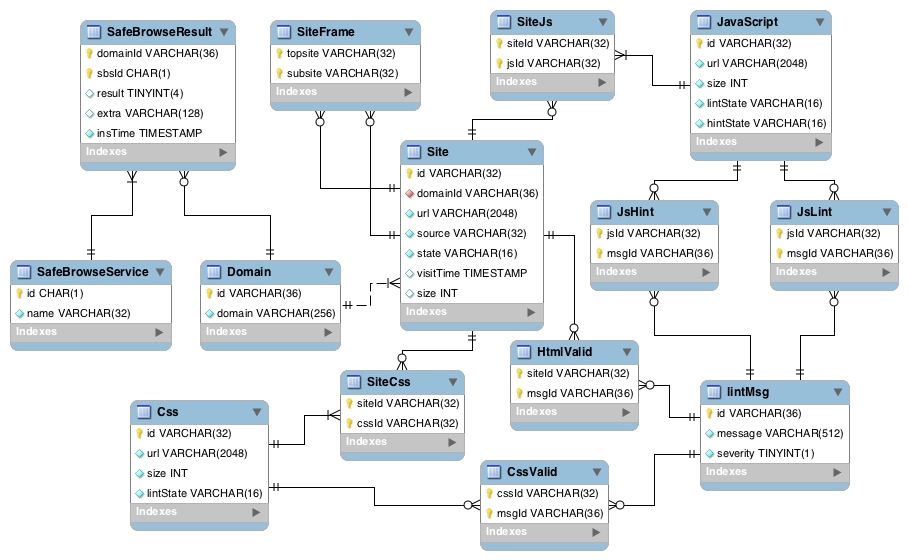
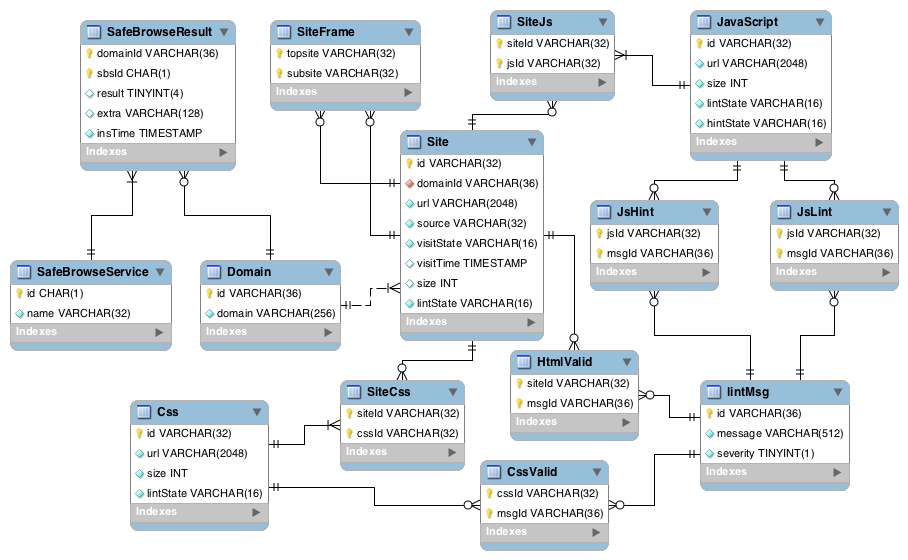
groundwork for html lintstate tracking

Changed region(s): [[0.3392, 0.2125, 0.7401, 0.85]]

diff --git a/src/main/java/edu/uccs/arenger/hilas/dal/Site.java b/src/main/java/edu/uccs/arenger/hilas/dal/Site.java
@@ -22,22 +22,22 @@ public class Site {
    private String  domainId;
    private URL     url;
    private String  source;
-   private State   state;
+   private VisitState   visitState;
    private Long    visitTime;
    private Integer size;
 
-   public enum State {
+   public enum VisitState {
       NEW, VISITING, VISITED, VALIDATING, VALID, ERROR
    }
 
    private static final String SEL = 
       "select * from site where id = ?";
    private static final String SEL_UNVISITED = 
-      "select * from site where state = 'NEW' limit 1";
+      "select * from site where visitState = 'NEW' limit 1";
    private static final String INS =
       "insert into site values (?,?,?,?,?,?,?)";
    private static final String UPD = 
-      "update site set state = ?, visitTime = ?, size = ? where id = ?";
+      "update site set visitState = ?, visitTime = ?, size = ? where id = ?";
    private static final String DEL_SITE_FRAME = 
       "delete from siteframe where topsite = ?";
    private static final String INS_SITE_FRAME = 
@@ -47,7 +47,7 @@ public class Site {
       id = Util.md5(url.toString());
       this.url = url;
       this.source = source;
-      state = State.NEW;
+      visitState = VisitState.NEW;
    }
 
    private Site(ResultSet rs) throws SQLException {
@@ -59,7 +59,7 @@ public class Site {
          LOGGER.warn("malformed url for id {}", id);
       }
       source = rs.getString("source");
-      state = State.valueOf(rs.getString("state"));
+      visitState = VisitState.valueOf(rs.getString("visitState"));
       Timestamp ts = rs.getTimestamp("visitTime");
       if (ts != null) { visitTime = ts.getTime(); }
       size = rs.getInt("size"); if (rs.wasNull()) { size = null; }
@@ -84,7 +84,7 @@ public class Site {
          ps.setString(2, domainId);
          ps.setString(3, url.toString());
          ps.setString(4, source);
-         ps.setString(5, state.toString());
+         ps.setString(5, visitState.toString());
          if (visitTime != null) {
             ps.setTimestamp(6, new Timestamp(visitTime));
          } else {
@@ -105,7 +105,7 @@ public class Site {
    public void update() throws DalException {
       try (Connection conn = Pool.getConnection();
            PreparedStatement ps = conn.prepareStatement(UPD)) {
-         ps.setString(1, state.toString());
+         ps.setString(1, visitState.toString());
          if (visitTime != null) {
             ps.setTimestamp(2, new Timestamp(visitTime));
          } else {
@@ -176,7 +176,7 @@ public class Site {
          }
       } catch (SQLException e) { throw new DalException(e); }
       if (site != null) {
-         site.setState(State.VISITING);
+         site.setState(VisitState.VISITING);
          site.update();
       }
       return site;
@@ -203,8 +203,8 @@ public class Site {
       return url;
    }
 
-   public void setState(State state) {
-      this.state = state;
+   public void setState(VisitState visitState) {
+      this.visitState = visitState;
    }
 
    public void setVisitTime(Long visitTime) {

diff --git a/src/main/java/edu/uccs/arenger/hilas/dal/JavaScript.java b/src/main/java/edu/uccs/arenger/hilas/dal/JavaScript.java
@@ -6,23 +6,22 @@ import java.sql.Connection;
 import java.sql.PreparedStatement;
 import java.sql.ResultSet;
 import java.sql.SQLException;
-import java.util.HashSet;
-import java.util.Set;
 
 import org.slf4j.Logger;
 import org.slf4j.LoggerFactory;
 
 import edu.uccs.arenger.hilas.Util;
+import edu.uccs.arenger.hilas.quality.LintState;
 
-public class JavaScript extends SiteResource {
+public final class JavaScript extends SiteResource {
    private static final Logger LOGGER
       = LoggerFactory.getLogger(JavaScript.class);
 
-   private String id;
-   private URL    url;
-   private int    size;
-   private State  lintState;
-   private State  hintState;
+   private String    id;
+   private URL       url;
+   private int       size;
+   private LintState lintState;
+   private LintState hintState;
 
    private static final String SEL =
       "select * from javascript where id = ?";
@@ -36,14 +35,12 @@ public class JavaScript extends SiteResource {
       "update JavaScript set lintState = ?, hintState = ? " +
       "where id = ?";
 
-   public enum State { UNPROCESSED, PROCESSING, PROCESSED, ERROR }
-
    public JavaScript(URL url, String content) {
       id = Util.md5(content);
       this.url = url;
       size = content.length();
-      lintState = State.UNPROCESSED;
-      hintState = State.UNPROCESSED;
+      lintState = LintState.UNPROCESSED;
+      hintState = LintState.UNPROCESSED;
    }
 
    private JavaScript(ResultSet rs) throws SQLException {
@@ -54,8 +51,8 @@ public class JavaScript extends SiteResource {
          LOGGER.warn("malformed url for id {}", id);
       }
       size = rs.getInt("size");
-      lintState = State.valueOf(rs.getString("lintState"));
-      hintState = State.valueOf(rs.getString("hintState"));
+      lintState = LintState.valueOf(rs.getString("lintState"));
+      hintState = LintState.valueOf(rs.getString("hintState"));
    }
 
    public static JavaScript get(String content) throws DalException {
@@ -120,7 +117,7 @@ public class JavaScript extends SiteResource {
          }
       } catch (SQLException e) { throw new DalException(e); }
       if (js != null) {
-         js.setHintState(State.PROCESSING);
+         js.setHintState(LintState.PROCESSING);
          js.update();
       }
       return js;
@@ -134,11 +131,11 @@ public class JavaScript extends SiteResource {
       return url;
    }
 
-   public void setLintState(State lintState) {
+   public void setLintState(LintState lintState) {
       this.lintState = lintState;
    }
 
-   public void setHintState(State hintState) {
+   public void setHintState(LintState hintState) {
       this.hintState = hintState;
    }
 

diff --git a/src/main/java/edu/uccs/arenger/hilas/dal/Css.java b/src/main/java/edu/uccs/arenger/hilas/dal/Css.java
@@ -6,27 +6,26 @@ import java.sql.Connection;
 import java.sql.PreparedStatement;
 import java.sql.ResultSet;
 import java.sql.SQLException;
-import java.util.HashSet;
-import java.util.Set;
 
 import org.slf4j.Logger;
 import org.slf4j.LoggerFactory;
 
 import edu.uccs.arenger.hilas.Util;
+import edu.uccs.arenger.hilas.quality.LintState;
 
 /* This class is a whole lot like the JavaScript class, and the DB
  * schema could be better normalized with a "Resource" table that holds
  * both js and css resources with a type... but after designing down that
  * road for a bit, it seemed that it could affect the speed of analysis,
  * which is the whole point of hilas... so, my appologies to Dr. Codd. */
-public class Css extends SiteResource {
+public final class Css extends SiteResource {
    private static final Logger LOGGER
       = LoggerFactory.getLogger(Css.class);
 
-   private String id;
-   private URL    url;
-   private int    size;
-   private State  lintState;
+   private String    id;
+   private URL       url;
+   private int       size;
+   private LintState lintState;
 
    private static final String SEL =
       "select * from css where id = ?";
@@ -40,15 +39,13 @@ public class Css extends SiteResource {
    private static final String SEL_UNLINTED =
       "select * from css where lintState = 'UNPROCESSED'";
    
-   public enum State { UNPROCESSED, PROCESSING, PROCESSED, ERROR }
-
    private Css() {}
 
    public Css(URL url, String content) {
       id = Util.md5(content);
       this.url = url;
       size = content.length();
-      lintState = State.UNPROCESSED;
+      lintState = LintState.UNPROCESSED;
    }
 
    private Css(ResultSet rs) throws SQLException {
@@ -59,7 +56,7 @@ public class Css extends SiteResource {
          LOGGER.warn("malformed url for id {}", id);
       }
       size = rs.getInt("size");
-      lintState = State.valueOf(rs.getString("lintState"));
+      lintState = LintState.valueOf(rs.getString("lintState"));
    }
 
    public static Css get(String content) throws DalException {
@@ -126,7 +123,7 @@ public class Css extends SiteResource {
          }
       } catch (SQLException e) { throw new DalException(e); }
       if (css != null) {
-         css.setLintState(State.PROCESSING);
+         css.setLintState(LintState.PROCESSING);
          css.update();
       }
       return css;
@@ -136,7 +133,7 @@ public class Css extends SiteResource {
       return url;
    }
 
-   public void setLintState(State lintState) {
+   public void setLintState(LintState lintState) {
       this.lintState = lintState;
    }
    

diff --git a/src/main/java/edu/uccs/arenger/hilas/SiteVisitor.java b/src/main/java/edu/uccs/arenger/hilas/SiteVisitor.java
@@ -166,7 +166,7 @@ public class SiteVisitor implements Worker {
                subSiteIds.add(site.getId());
             } else {
                site = new Site(url, "hilas:sub");
-               site.setState(Site.State.VISITING);
+               site.setState(Site.VisitState.VISITING);
                try {
                   site.insert();
                   subSiteIds.add(site.getId());
@@ -184,7 +184,7 @@ public class SiteVisitor implements Worker {
          LOGGER.warn(
             "visit depth exceeded. skipping visit to: {}", site.getUrl());
          try {
-            site.setState(Site.State.ERROR);
+            site.setState(Site.VisitState.ERROR);
             site.update();
          } catch (DalException e) {
             LOGGER.error("error updating site", e);
@@ -201,7 +201,7 @@ public class SiteVisitor implements Worker {
             html = Util.getTypedContent(site.getUrl()).content;
          } catch (Exception e) {
             LOGGER.warn("problem loading url. msg: {}", e.getMessage());
-            site.setState(Site.State.ERROR);
+            site.setState(Site.VisitState.ERROR);
             site.update();
             return;
          }
@@ -219,7 +219,7 @@ public class SiteVisitor implements Worker {
             site.setSize(0);
          }
 
-         site.setState(Site.State.VISITED);
+         site.setState(Site.VisitState.VISITED);
          site.update();
       } catch (DalException e) {
          LOGGER.error("problem while visiting {}", site.getUrl());

diff --git a/src/main/java/edu/uccs/arenger/hilas/dal/LintMsg.java b/src/main/java/edu/uccs/arenger/hilas/dal/LintMsg.java
@@ -38,30 +38,30 @@ public final class LintMsg {
    private Subject subject;
    private String type;
    private String message;
-   private String fullMessage;
+   private String formattedMsg;
 
    public LintMsg(Subject subject, String type, String message) {
       this.subject = subject;
       this.type = type;
       this.message = message;
-      fullMessage = String.format("%s: %s: %s",
+      formattedMsg = String.format("%s: %s: %s",
          subject.toString().toLowerCase(), type.toLowerCase(), message);
    }
 
    public String toString() {
-      return fullMessage;
+      return formattedMsg;
    }
 
    public boolean equals(Object o) {
       if ((o == null) || !(o instanceof LintMsg)) {
          return false;
       } else {
-         return ((LintMsg)o).fullMessage.equals(fullMessage);
+         return ((LintMsg)o).formattedMsg.equals(formattedMsg);
       }
    }
 
    public int hashCode() {
-      return fullMessage.hashCode();
+      return formattedMsg.hashCode();
    }
 
    public static String idFor(LintMsg message) throws DalException {

diff --git a/src/main/java/edu/uccs/arenger/hilas/quality/JsHinter.java b/src/main/java/edu/uccs/arenger/hilas/quality/JsHinter.java
@@ -109,7 +109,7 @@ public class JsHinter implements Worker, AutoCloseable {
             }
          } catch (Exception e) {
             LOGGER.error("problem loading js src. msg: {}", e.getMessage());
-            js.setHintState(JavaScript.State.ERROR);
+            js.setHintState(LintState.ERROR);
             js.update();
             return;
          }
@@ -129,11 +129,11 @@ public class JsHinter implements Worker, AutoCloseable {
                   new LintMsg(LintMsg.Subject.JS, "general", msg)));
             }
             LintMsg.associate(LintMsg.Subject.JS, js.getId(), msgIds);
-            js.setHintState(JavaScript.State.PROCESSED);
+            js.setHintState(LintState.PROCESSED);
          } catch (JavaScriptException|JsInterruptedException|IOException e) {
             LOGGER.warn("{} for js id {} - {}",
                e.getClass().getName(), js.getId(), e.getMessage());
-            js.setHintState(JavaScript.State.ERROR);
+            js.setHintState(LintState.ERROR);
          }
          js.update();
       } catch (DalException e) {

diff --git a/src/main/java/edu/uccs/arenger/hilas/quality/CssChecker.java b/src/main/java/edu/uccs/arenger/hilas/quality/CssChecker.java
@@ -131,7 +131,7 @@ public class CssChecker implements Worker {
                                  // a css URL was not readable...
             LOGGER.warn("{} for css id {} - {}",
                e.getClass().getName(), css.getId(), e.getMessage());
-            css.setLintState(Css.State.ERROR);
+            css.setLintState(LintState.ERROR);
          }
          if (msgSet != null) {
             Set<String> msgIds = new HashSet<String>();
@@ -139,7 +139,7 @@ public class CssChecker implements Worker {
                msgIds.add(LintMsg.idFor(msg));
             }
             LintMsg.associate(LintMsg.Subject.CSS, css.getId(), msgIds);
-            css.setLintState(Css.State.PROCESSED);
+            css.setLintState(LintState.PROCESSED);
          }
          css.update();
       } catch (DalException e) {

diff --git a/src/main/java/edu/uccs/arenger/hilas/quality/LintState.java b/src/main/java/edu/uccs/arenger/hilas/quality/LintState.java
@@ -1,0 +1,5 @@
+package edu.uccs.arenger.hilas.quality;
+
+public enum LintState {
+   UNPROCESSED, PROCESSING, PROCESSED, ERROR
+}
